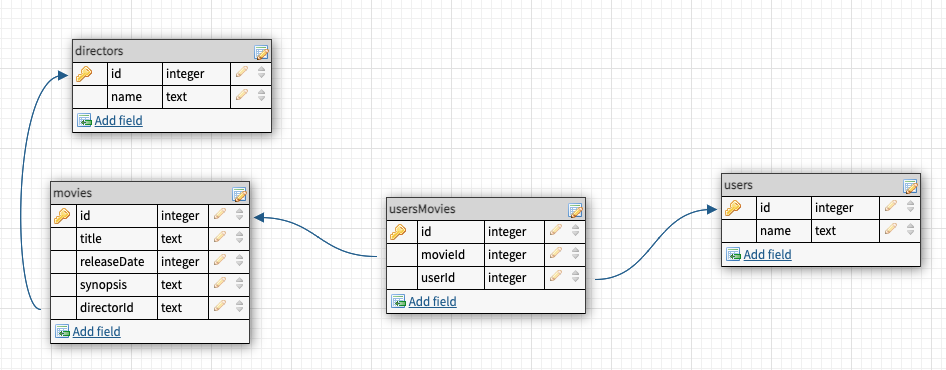
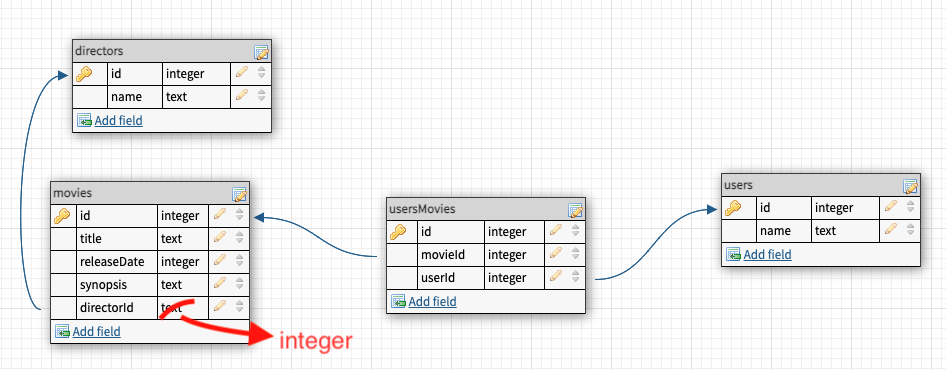
updated readme

Changed region(s): [[0.1533, 0.8027, 0.3679, 0.9514]]

diff --git a/dbTest.js b/dbTest.js
@@ -6,13 +6,89 @@ const models = require('./models')
 // models.director.findAll().then(res=> console.log(res))
 // models.movie.findAll().then(res=> console.log(res))
 
-const findMovies = async () => {
+const findUserMovies = async () => {
     const ryan = await models.user.findOne({
         where:{
-            name: 'Ryan'
+            name: 'Ryan3'
         }
     })
     const ryansMovies = await ryan.getMovies()
     console.log(ryansMovies)
 }
-findMovies()
+// findUserMovies()
+
+const createMovie = () => {
+    models.movie.create({
+        title: 'Spirited Away',
+        synopsis:'10-year-old Chihiro (Rumi Hiiragi) and her parents (Takashi Naitô, Yasuko Sawaguchi) stumble upon a seemingly abandoned amusement park.'
+    })
+}
+// createMovie()
+const addDirector = () => {
+    models.director.create({
+        name:'Hayao Miyazaki'
+    })
+}
+// addDirector()
+
+let linkMovieAndDirector = async () => {
+    
+    try {
+        let spiritedAway = await models.movie.findOne({
+            where: {
+                title:'Spirited Away'
+            }
+        })
+        let director = await models.director.findOne({
+            where: {
+                name: 'Hayao Miyazaki'
+            }
+        })
+        director.addMovie(spiritedAway)
+    } catch (error) {
+        console.log(error.message)
+    }
+}
+// linkMovieAndDirector()
+// maybe show parameters here 
+
+let addUser = async () => {
+    models.user.create({
+        name: 'Ryan3'
+    })
+}
+// addUser()
+let addUserBookmark = async () => {
+    let user = await models.user.findOne({
+        where: {
+            name: 'Ryan3'
+        }
+    })
+    let movie = await models.movie.findOne({
+        where: {
+            title:'Spirited Away'
+        }
+    })
+    models.userMovie.create({
+        movieId: movie.id,
+        userId: user.id
+    })
+    console.log(user.id)
+    console.log(movie.id)
+} 
+// addUserBookmark()
+
+let findDirectorMovies = async () => {
+    let director = await models.director.findOne({
+        where: {
+            name: 'Alex Garland'
+        }
+    })
+    let directorMovies = await models.movie.findAll({
+        where:{
+            directorId: director.id
+        }
+    })
+    console.log(directorMovies)
+}
+findDirectorMovies()

diff --git a/README.md b/README.md
@@ -6,11 +6,12 @@
 
 - initialize npm
 - run npm install (it will read the package.json and install both sequalize and pg for us!!)
-- create a git ignore and add node_modules to it
+- normally we'd create a gitignore and add node_modules to it but this is already done for you
 - intialize sequelize
 - modify config/config.json
-- use psql or createdb to create the database
-- Create our models with sequelize model:generate <name, attributes, etc> (one for each table!)
+- use psql or createdb to create the database remember to name it 'sequelize_movies'
+- Create our models with `sequelize model:generate <name, attributes, etc>` (one for each table!)
+  - - make sure the the data types are exactly the same as in the erb
 - a model called `director`, which should consist of:
   - `name`
 - a model called `movie`, which should consist of:
@@ -30,8 +31,9 @@
   - `name`
 
 - Once you're done creating your models run sequelize db:migrate
-- If your migrations ran smoothly then run this command to run the seeds
-- sequelize-cli db:seed:all
+- Check your psql to make sure you have all the tables
+- If your migrations ran smoothly then run this command to run the seed files `only run this once!!!!`
+- `sequelize-cli db:seed:all`
 
 ### ABOUT THIS DATABASE:
 
